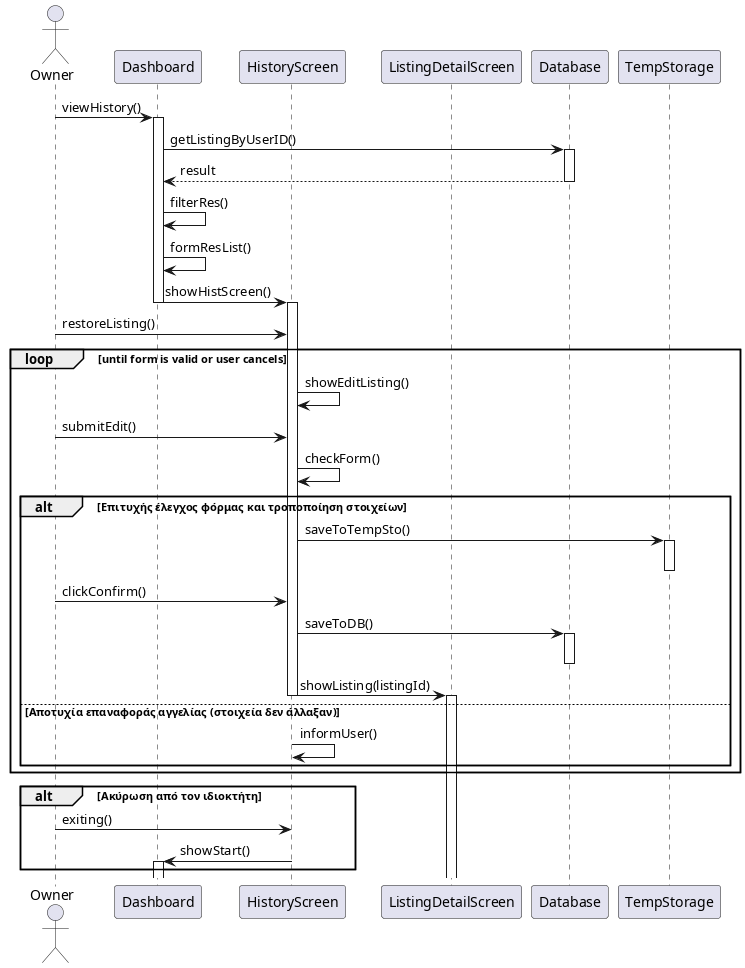
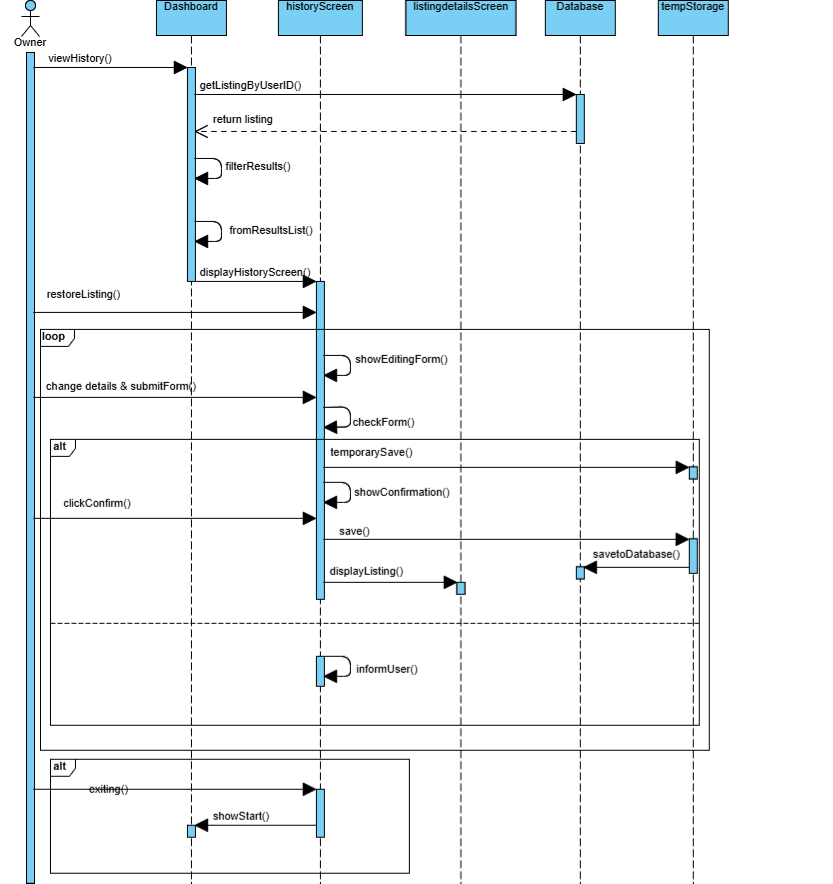
archive and review final?

diff --git a/v0.3/UC_Archive/UC_archive.md b/v0.3/UC_Archive/UC_archive.md
@@ -5,14 +5,15 @@
 2.  Το σύστημα αναζητά στη βάση δεδομένων όλες τις αγγελίες του ιδιοκτήτη, φιλτράρει τα αποτελέσματα της αναζήτησης με βάση την κατάστασή τους (Διαθέσιμη/ Μη Διαθέσιμη/ Ανενεργή) και δημιουργεί λίστες αποτελεσμάτων
 3.  Το σύστημα μεταβιβάζει τον ιδιοκτήτη στην σελίδα της προβολής του ιστορικού και του εμφανίζει τις λίστες που δημιουργήθηκαν
 4.  Ο ιδιοκτήτης επιλέγει την επαναφορά ανενεργής αγγελίας
-5.  Το σύστημα εμφανίζει στον ιδιοκτήτη στην φόρμα τροποποίησης της αγγελίας
+5.  Το σύστημα εμφανίζει στον ιδιοκτήτη την φόρμα τροποποίησης της αγγελίας
 6.  Ο ιδιοκτήτης αλλάζει τα στοιχεία της αγγελίας
-7.  Ο ιδιοκτήτης επιλέγει την επαναφορά της αγγελίας
-8.  Το σύστημα ελέγχει την τροποποιημένη αγγελία και επιβεβαιώνει ότι τα στοιχεία της έχουν πράγματι τροποποιηθεί
-9.  Το σύστημα αποθηκεύει προσωρινά την τροποποιημένη αγγελία
-10. Το σύστημα εμφανίζει μήνυμα ζητώντας επιβεβαιώση
-11. Το σύστημα τροποποιεί την κατάσταση της αγγελίας σε διαθέσιμη και αποθηκεύει στη βάση δεδομένων την αλλαγή
-12. Το σύστημα μεταβιβάζει τον ιδιοκτήτη στην πλήρη περιγραφή της αγγελίας
+7.  Το σύστημα ελέγχει την τροποποιημένη αγγελία και επιβεβαιώνει ότι τα στοιχεία της έχουν πράγματι τροποποιηθεί
+8.  Το σύστημα αποθηκεύει προσωρινά την τροποποιημένη αγγελία
+9.  Το σύστημα εμφανίζει μήνυμα ζητώντας επιβεβαιώση
+10. Ο ιδιοκτήτης επιλέγει την επαναφορά της αγγελίας
+11. Το σύστημα τροποποιεί την κατάσταση της αγγελίας σε διαθέσιμη στο αρχείο προσωρινής αποθήκευσης
+12. Το σύστημα αποθηκεύει την τελική αγγελία στη στη βάση δεδομένων
+13. Το σύστημα μεταβιβάζει τον ιδιοκτήτη στην πλήρη περιγραφή της αγγελίας
 
 Εναλλακτικές Ροές
 1. Ακύρωση από τον ιδιοκτήτη (από βήμα 4, 6 και 10 της βασικής)

diff --git a/v0.3/UC_Review/UC_review.md b/v0.3/UC_Review/UC_review.md
@@ -19,6 +19,5 @@
 8.1.2 Το σύστημα μεταβιβάζει τον ενοικιαστή στην αρχική σελίδα
 
 Αποτυχής υποβολή κριτικής (από βήμα 8 της βασικής)
-8.2.1 Το σύστημα απορρίπτει την κριτική λόγω χρήσης μη αποδεκτής γλώσσας ή/και ακατάλληλου περιεχομένου (π.χ. υβριστικό λεξιλόγιο, προσβλητικό περιεχόμενο, παραπλανητικές πληροφορίες)
-8.2.2 Το σύστημα ενημερώνει τον ενοικιαστή για την μη αποδοχή της κριτικής
-8.2.3 Επιστροφή στο βήμα 6 της βασικής ροής
+8.2.1 Το σύστημα απορρίπτει την κριτική λόγω χρήσης μη αποδεκτής γλώσσας ή/και ακατάλληλου περιεχομένου (π.χ. υβριστικό λεξιλόγιο, προσβλητικό περιεχόμενο, παραπλανητικές πληροφορίες) και ενημερώνει τον ενοικιαστή για την μη αποδοχή της κριτικής
+8.2.2 Επιστροφή στο βήμα 6 της βασικής ροής
